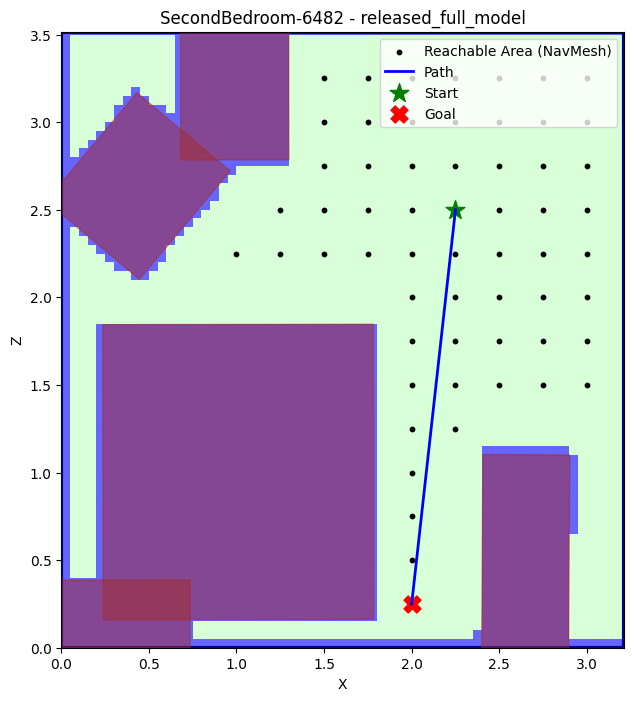
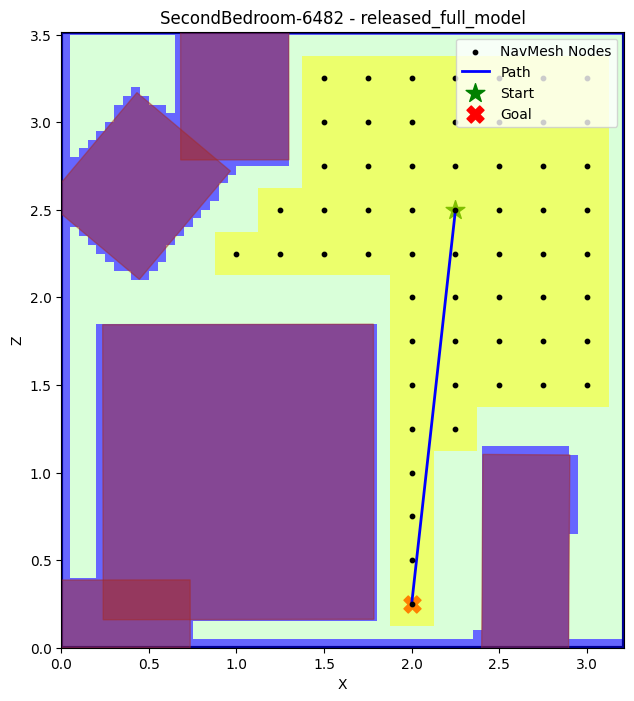
update

Changed region(s): [[0.3297, 0.0599, 0.959, 0.8987]]

diff --git a/plot_path.py b/plot_path.py
@@ -186,9 +186,14 @@ for folder in folders:
         
     # Also plot the valid positions if desired
     if valid_positions:
+        # Draw the 0.25m x 0.25m Walkable Area cells
+        for p in valid_positions:
+            rect = patches.Rectangle((p['x'] - 0.125, p['z'] - 0.125), 0.25, 0.25, linewidth=0, facecolor='yellow', alpha=0.5, zorder=2)
+            ax.add_patch(rect)
+            
         rx = [p['x'] for p in valid_positions]
         rz = [p['z'] for p in valid_positions]
-        ax.scatter(rx, rz, c='black', s=10, label='Reachable Area (NavMesh)')
+        ax.scatter(rx, rz, c='black', s=10, label='NavMesh Nodes', zorder=3)
         
     # Plot path
     if path_points:
